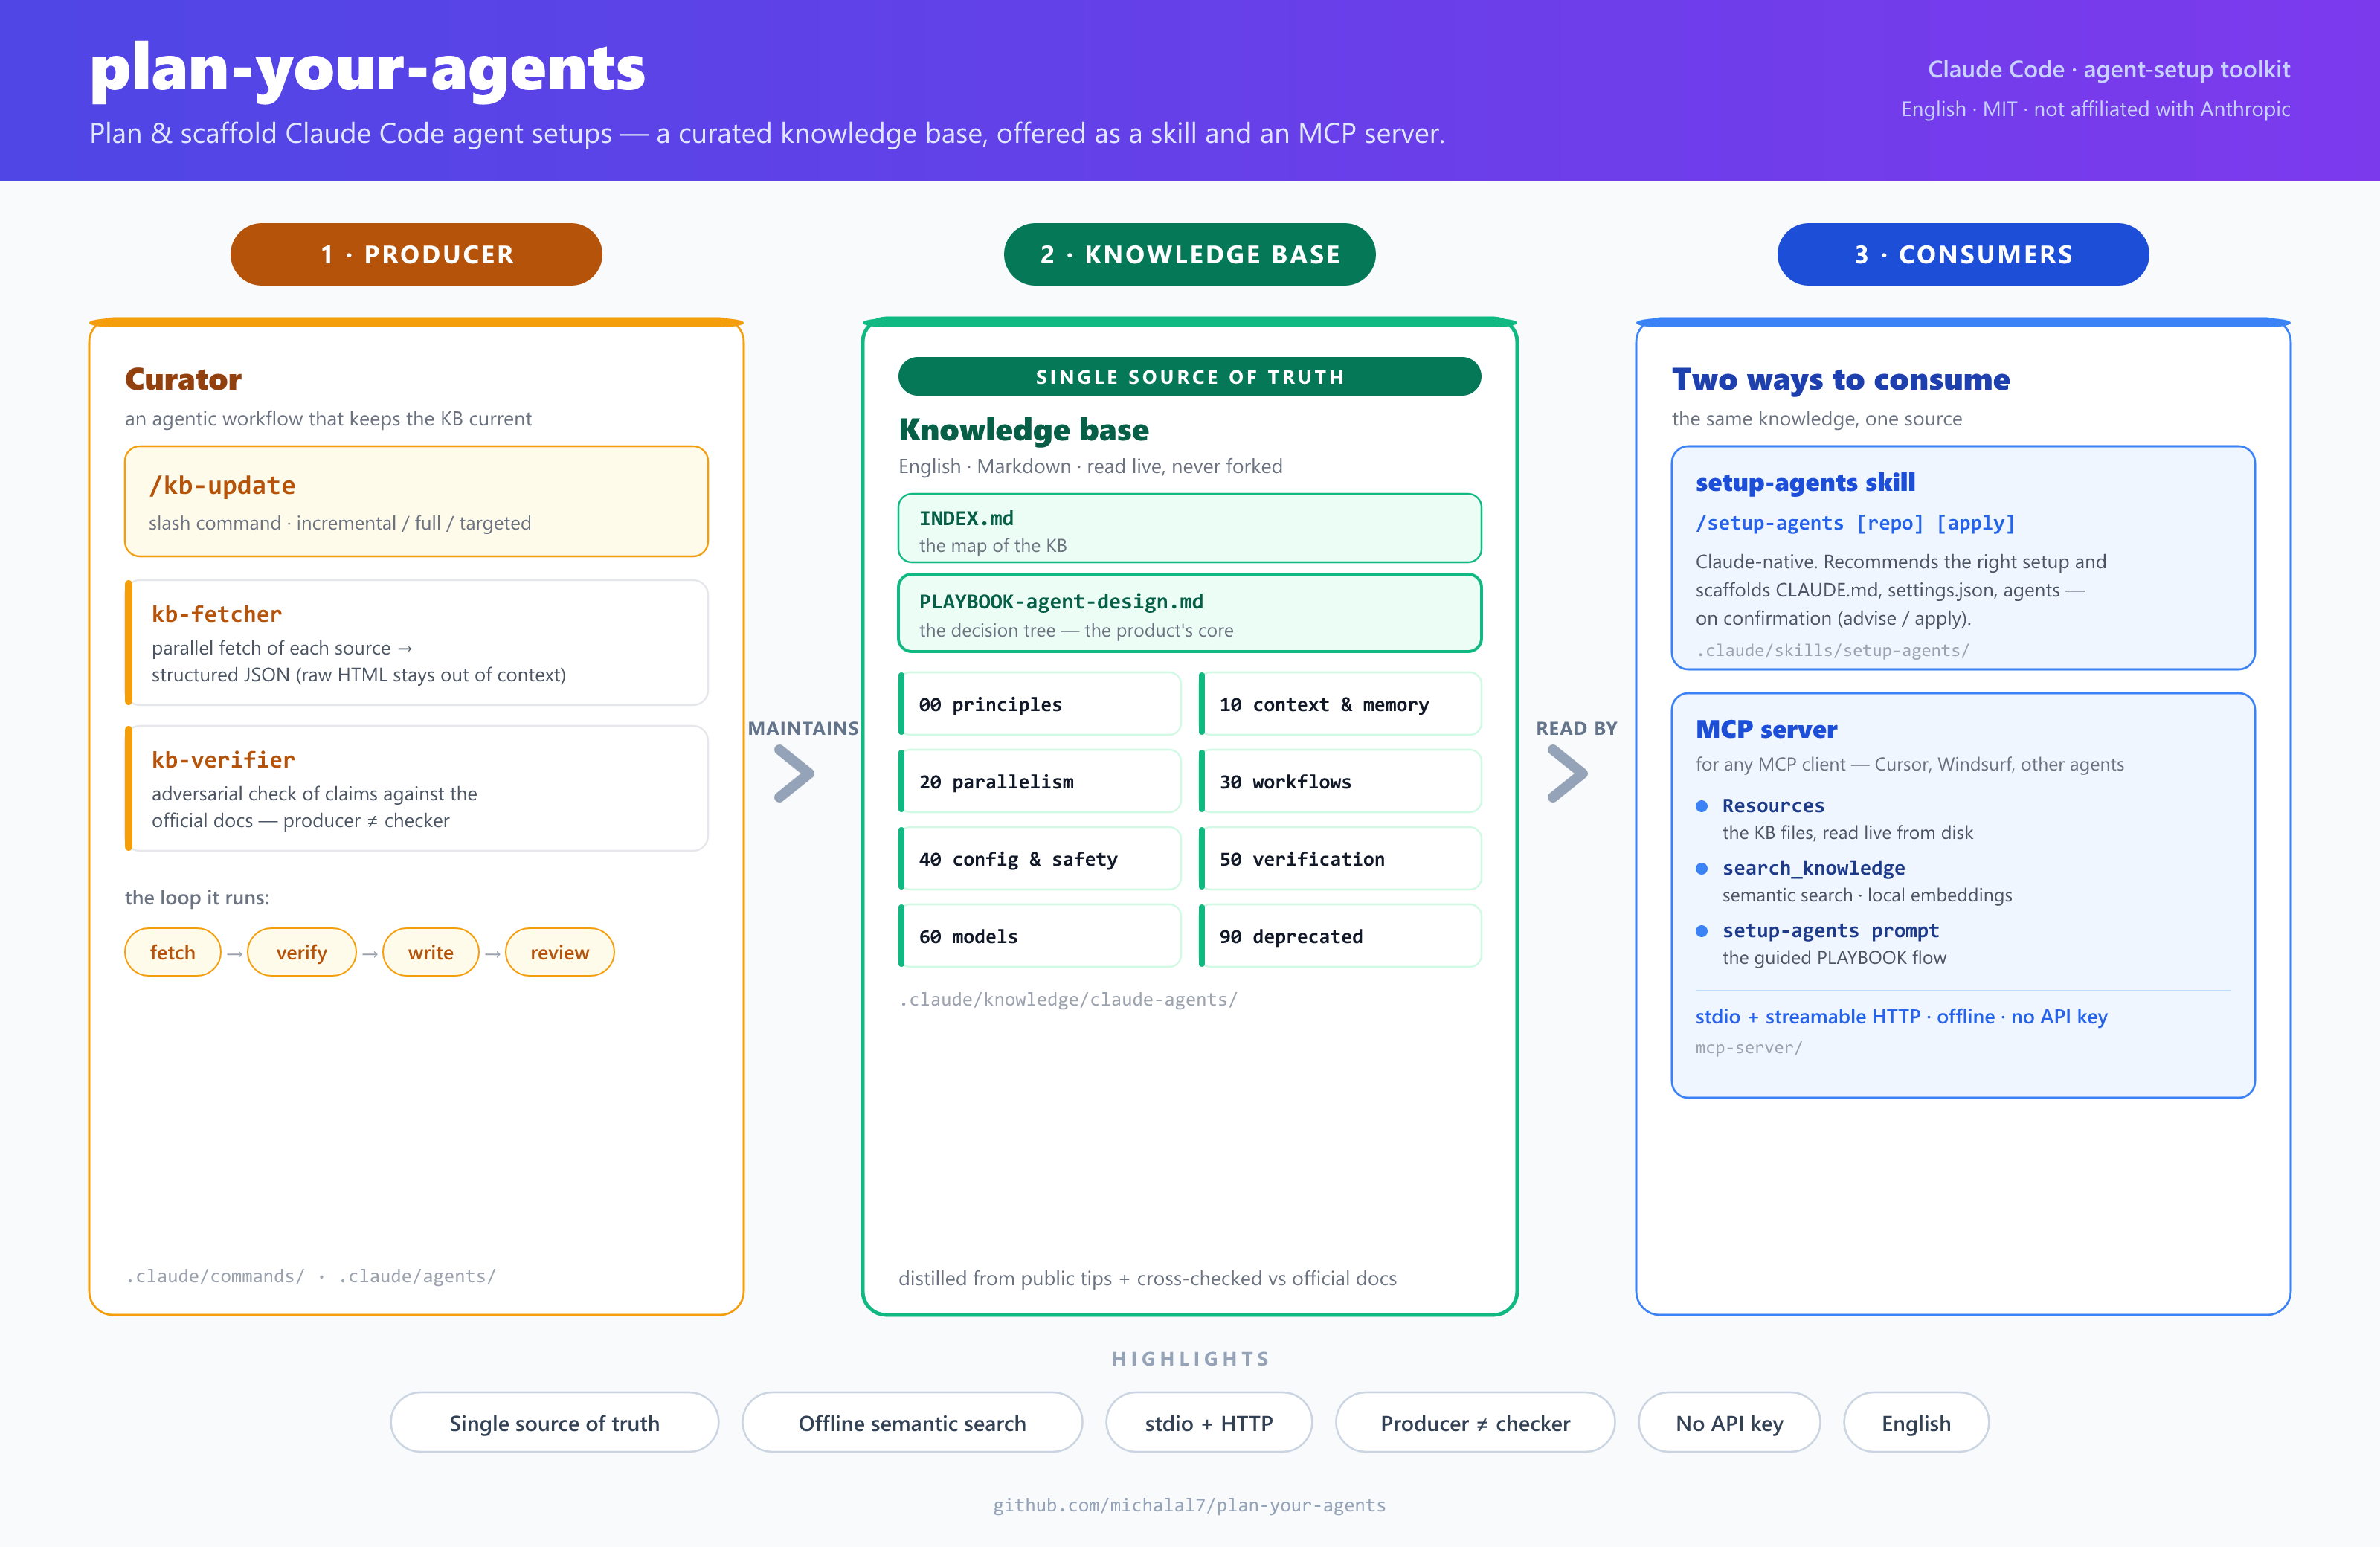
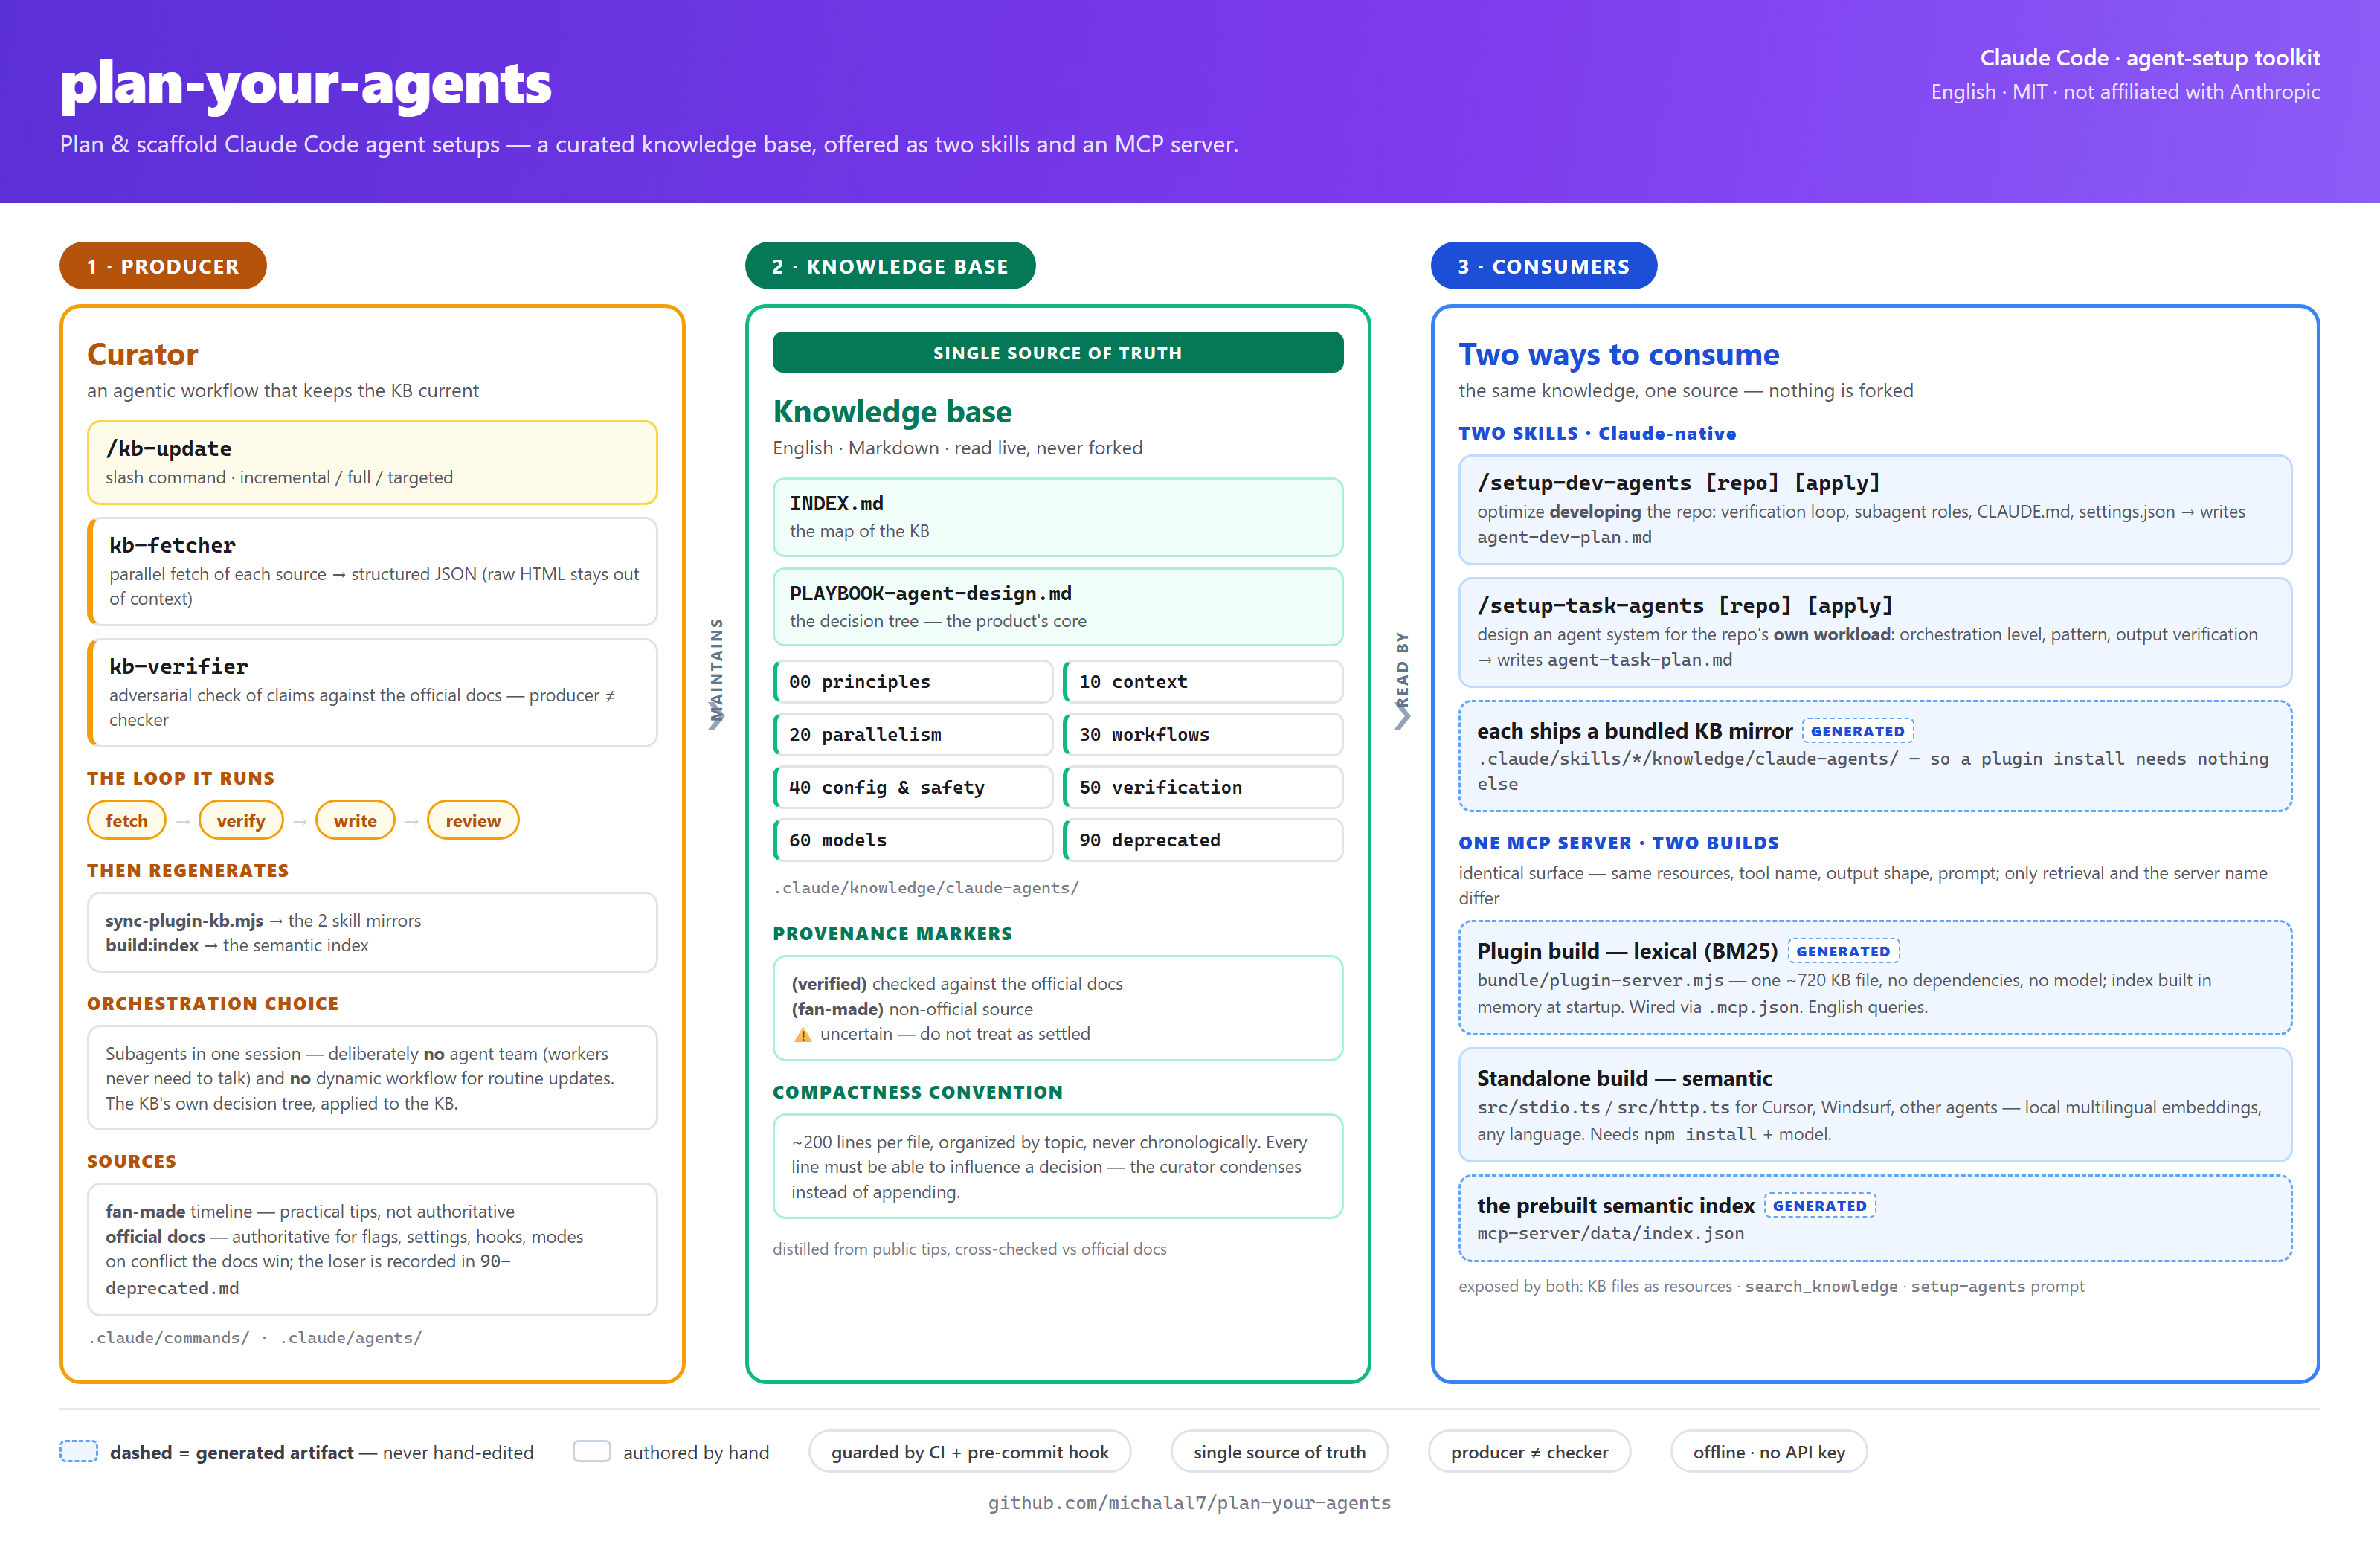
Redraw the architecture diagram and give it a source
overview.png was two refactors out of date — it showed a single
/setup-agents skill and described the MCP server as semantic-only — and
nothing in the repo linked to it, so nobody noticed.

- Redraw for the current setup: two skills with their generated KB
  mirrors, one MCP server in two builds (semantic standalone, lexical
  BM25 in the plugin), and all three generated artifacts drawn dashed
  with their CI/pre-commit guard called out.
- Add scripts/overview.html as the source, with the re-render command
  in its header. The image drifted precisely because it had none.
- Link it from a new README "Architecture" section; an unreferenced
  diagram cannot be noticed when it goes stale.
- CLAUDE.md: record the guardrail rule that a blocked edit means stop
  and ask, never reroute the same change through another channel.

diff --git a/scripts/overview.html b/scripts/overview.html
@@ -1,0 +1,293 @@
+<!doctype html>
+<!--
+  Source for ../overview.png (the README architecture diagram).
+
+  The PNG used to drift out of date because it had no source and no reference.
+  Edit this file, then re-render at exactly 3200x2080 (1600x1040 @2x):
+
+    chrome --headless=new --disable-gpu --hide-scrollbars \
+           --force-device-scale-factor=2 --window-size=1600,1040 \
+           --screenshot=overview.png scripts/overview.html
+
+  Keep it truthful about the current setup: two skills, one MCP server in two
+  builds (semantic standalone / lexical BM25 in the plugin), and the three
+  generated artifacts drawn dashed.
+-->
+<html><head><meta charset="utf-8"><style>
+  * { box-sizing: border-box; margin: 0; padding: 0; }
+  body {
+    width: 1600px; height: 1040px; background: #fff;
+    font-family: "Segoe UI", system-ui, -apple-system, sans-serif;
+    color: #1a1a1f; overflow: hidden;
+  }
+  code, .mono { font-family: "Cascadia Mono", Consolas, "SF Mono", monospace; }
+
+  /* ---------- header ---------- */
+  header {
+    background: linear-gradient(100deg, #5b2fd6 0%, #7c3aed 60%, #8b5cf6 100%);
+    color: #fff; padding: 26px 40px 30px; display: flex; align-items: flex-start;
+    justify-content: space-between;
+  }
+  h1 { font-size: 40px; font-weight: 800; letter-spacing: -0.6px; }
+  .sub { font-size: 16px; margin-top: 6px; color: #e9e2ff; }
+  .meta { text-align: right; font-size: 14px; color: #e9e2ff; line-height: 1.6; }
+  .meta b { color: #fff; font-weight: 600; font-size: 15px; }
+
+  /* ---------- layout ---------- */
+  main { padding: 26px 40px 0; display: grid;
+         grid-template-columns: 1fr 1fr 1.42fr; gap: 0 40px; }
+  .colhead {
+    display: inline-block; color: #fff; font-size: 13.5px; font-weight: 700;
+    letter-spacing: 1.1px; padding: 7px 18px; border-radius: 999px; margin-bottom: 10px;
+  }
+  .c1 .colhead { background: #b45309; }
+  .c2 .colhead { background: #047857; }
+  .c3 .colhead { background: #1d4ed8; }
+  .panel { border: 2.5px solid; border-radius: 14px; padding: 16px 16px 14px; height: 726px; }
+  .c1 .panel { border-color: #f59e0b; }
+  .c2 .panel { border-color: #10b981; }
+  .c3 .panel { border-color: #3b82f6; }
+  .ptitle { font-size: 21px; font-weight: 700; margin-bottom: 2px; }
+  .c1 .ptitle { color: #b45309; } .c2 .ptitle { color: #047857; } .c3 .ptitle { color: #1d4ed8; }
+  .plead { font-size: 13px; color: #565663; margin-bottom: 12px; }
+
+  .col { position: relative; }
+  /* Label runs vertically inside the 40px column gap, so it can never collide
+     with the panel borders the way a horizontal label did. */
+  .arrow { position: absolute; top: 300px; right: -40px; width: 40px; text-align: center;
+           font-size: 26px; color: #94a3b8; z-index: 2; }
+  .arrow span { position: absolute; bottom: 40px; left: 50%; transform: translateX(-50%) rotate(-90deg);
+                transform-origin: center; white-space: nowrap; font-size: 10.5px;
+                font-weight: 700; letter-spacing: 1.2px; color: #64748b; }
+
+  /* ---------- cards ---------- */
+  .card { border: 1.5px solid #e2e2ea; border-radius: 9px; padding: 9px 11px; margin-bottom: 8px; }
+  .card.accent { border-left: 4px solid #f59e0b; }
+  .card.hi { background: #fffbeb; border-color: #fcd34d; }
+  .cname { font-size: 14.5px; font-weight: 700; }
+  .cdesc { font-size: 11.8px; color: #565663; margin-top: 2px; line-height: 1.42; }
+
+  .sot { background: #047857; color: #fff; font-size: 11.5px; font-weight: 700;
+         letter-spacing: 1px; text-align: center; padding: 6px; border-radius: 7px;
+         margin-bottom: 11px; }
+  .kbfile { border: 1.5px solid #a7f3d0; border-radius: 8px; padding: 8px 10px; margin-bottom: 7px;
+            background: #f0fdf9; }
+  .kbfile .cname { font-size: 13.5px; }
+  .grid2 { display: grid; grid-template-columns: 1fr 1fr; gap: 6px; }
+  .topic { border: 1.5px solid #e2e2ea; border-left: 3px solid #10b981; border-radius: 7px;
+           padding: 6px 8px; font-size: 12.5px; font-weight: 600; }
+
+  .loop { display: flex; align-items: center; gap: 5px; margin-top: 4px; }
+  .pill { border: 1.5px solid #f59e0b; color: #b45309; border-radius: 999px;
+          padding: 4px 11px; font-size: 12px; font-weight: 700; background: #fffbeb; }
+  .lsep { color: #cbd5e1; font-size: 13px; }
+
+  .path { border: 1.5px solid #bfdbfe; background: #eff6ff; border-radius: 9px;
+          padding: 9px 11px; margin-bottom: 8px; }
+  .path.gen { border-style: dashed; border-color: #60a5fa; }
+  .ptag { display: inline-block; font-size: 9.5px; font-weight: 800; letter-spacing: 0.7px;
+          color: #1d4ed8; border: 1.2px dashed #60a5fa; border-radius: 4px;
+          padding: 1px 5px; margin-left: 6px; vertical-align: 1.5px; background: #fff; }
+  .foot { font-size: 11px; color: #7a7a8a; margin-top: 7px; }
+  .subhead { font-size: 12px; font-weight: 800; letter-spacing: 0.9px; color: #1d4ed8;
+             margin: 12px 0 7px; }
+  .subhead:first-child { margin-top: 0; }
+
+  /* ---------- bottom ---------- */
+  footer { padding: 16px 40px 0; }
+  .legend { display: flex; align-items: center; gap: 26px; flex-wrap: wrap;
+            border-top: 1.5px solid #e8e8ef; padding-top: 13px; }
+  .lg { display: flex; align-items: center; gap: 8px; font-size: 12.5px; color: #3f3f4a; }
+  .swatch { width: 26px; height: 15px; border-radius: 4px; border: 1.6px dashed #60a5fa;
+            background: #eff6ff; }
+  .swatch.solid { border-style: solid; border-color: #cbd5e1; background: #fff; }
+  .chip { border: 1.5px solid #e2e2ea; border-radius: 999px; padding: 5px 14px;
+          font-size: 12px; font-weight: 600; color: #3f3f4a; }
+  .url { text-align: center; font-size: 12.5px; color: #7a7a8a; margin-top: 13px; }
+</style></head><body>
+
+<header>
+  <div>
+    <h1>plan-your-agents</h1>
+    <div class="sub">Plan &amp; scaffold Claude Code agent setups — a curated knowledge base, offered as two skills and an MCP server.</div>
+  </div>
+  <div class="meta">
+    <b>Claude Code · agent-setup toolkit</b><br>
+    English · MIT · not affiliated with Anthropic
+  </div>
+</header>
+
+<main>
+  <!-- ============ 1 PRODUCER ============ -->
+  <div class="col c1">
+    <div class="colhead">1 · PRODUCER</div>
+    <div class="panel">
+      <div class="ptitle">Curator</div>
+      <div class="plead">an agentic workflow that keeps the KB current</div>
+
+      <div class="card hi">
+        <div class="cname mono">/kb-update</div>
+        <div class="cdesc">slash command · incremental / full / targeted</div>
+      </div>
+      <div class="card accent">
+        <div class="cname mono">kb-fetcher</div>
+        <div class="cdesc">parallel fetch of each source → structured JSON (raw HTML stays out of context)</div>
+      </div>
+      <div class="card accent">
+        <div class="cname mono">kb-verifier</div>
+        <div class="cdesc">adversarial check of claims against the official docs — producer ≠ checker</div>
+      </div>
+
+      <div class="subhead" style="color:#b45309">THE LOOP IT RUNS</div>
+      <div class="loop">
+        <div class="pill">fetch</div><div class="lsep">→</div>
+        <div class="pill">verify</div><div class="lsep">→</div>
+        <div class="pill">write</div><div class="lsep">→</div>
+        <div class="pill">review</div>
+      </div>
+
+      <div class="subhead" style="color:#b45309">THEN REGENERATES</div>
+      <div class="card">
+        <div class="cdesc" style="margin:0">
+          <b>sync-plugin-kb.mjs</b> → the 2 skill mirrors<br>
+          <b>build:index</b> → the semantic index
+        </div>
+      </div>
+
+      <div class="subhead" style="color:#b45309">ORCHESTRATION CHOICE</div>
+      <div class="card">
+        <div class="cdesc" style="margin:0">Subagents in one session — deliberately <b>no</b> agent
+          team (workers never need to talk) and <b>no</b> dynamic workflow for routine updates.
+          The KB's own decision tree, applied to the KB.</div>
+      </div>
+
+      <div class="subhead" style="color:#b45309">SOURCES</div>
+      <div class="card">
+        <div class="cdesc" style="margin:0">
+          <b>fan-made</b> timeline — practical tips, not authoritative<br>
+          <b>official docs</b> — authoritative for flags, settings, hooks, modes<br>
+          on conflict the docs win; the loser is recorded in <span class="mono">90-deprecated.md</span>
+        </div>
+      </div>
+
+      <div class="foot mono">.claude/commands/ · .claude/agents/</div>
+    </div>
+    <div class="arrow">❯<span>MAINTAINS</span></div>
+  </div>
+
+  <!-- ============ 2 KNOWLEDGE BASE ============ -->
+  <div class="col c2">
+    <div class="colhead">2 · KNOWLEDGE BASE</div>
+    <div class="panel">
+      <div class="sot">SINGLE SOURCE OF TRUTH</div>
+      <div class="ptitle">Knowledge base</div>
+      <div class="plead">English · Markdown · read live, never forked</div>
+
+      <div class="kbfile">
+        <div class="cname mono">INDEX.md</div>
+        <div class="cdesc">the map of the KB</div>
+      </div>
+      <div class="kbfile">
+        <div class="cname mono">PLAYBOOK-agent-design.md</div>
+        <div class="cdesc">the decision tree — the product's core</div>
+      </div>
+
+      <div class="grid2" style="margin-top:9px">
+        <div class="topic mono">00 principles</div>
+        <div class="topic mono">10 context</div>
+        <div class="topic mono">20 parallelism</div>
+        <div class="topic mono">30 workflows</div>
+        <div class="topic mono">40 config &amp; safety</div>
+        <div class="topic mono">50 verification</div>
+        <div class="topic mono">60 models</div>
+        <div class="topic mono">90 deprecated</div>
+      </div>
+
+      <div class="foot mono" style="margin-top:11px">.claude/knowledge/claude-agents/</div>
+
+      <div class="subhead" style="color:#047857; margin-top:16px">PROVENANCE MARKERS</div>
+      <div class="card" style="border-color:#a7f3d0">
+        <div class="cdesc" style="margin:0">
+          <b>(verified)</b> checked against the official docs<br>
+          <b>(fan-made)</b> non-official source<br>
+          <b>⚠️</b> uncertain — do not treat as settled
+        </div>
+      </div>
+
+      <div class="subhead" style="color:#047857">COMPACTNESS CONVENTION</div>
+      <div class="card" style="border-color:#a7f3d0">
+        <div class="cdesc" style="margin:0">~200 lines per file, organized by topic, never
+          chronologically. Every line must be able to influence a decision — the curator
+          condenses instead of appending.</div>
+      </div>
+
+      <div class="foot" style="margin-top:12px">distilled from public tips, cross-checked vs official docs</div>
+    </div>
+    <div class="arrow">❯<span>READ BY</span></div>
+  </div>
+
+  <!-- ============ 3 CONSUMERS ============ -->
+  <div class="col c3">
+    <div class="colhead">3 · CONSUMERS</div>
+    <div class="panel">
+      <div class="ptitle">Two ways to consume</div>
+      <div class="plead">the same knowledge, one source — nothing is forked</div>
+
+      <div class="subhead">TWO SKILLS · Claude-native</div>
+      <div class="path">
+        <div class="cname mono">/setup-dev-agents [repo] [apply]</div>
+        <div class="cdesc">optimize <b>developing</b> the repo: verification loop, subagent roles,
+          CLAUDE.md, settings.json → writes <span class="mono">agent-dev-plan.md</span></div>
+      </div>
+      <div class="path">
+        <div class="cname mono">/setup-task-agents [repo] [apply]</div>
+        <div class="cdesc">design an agent system for the repo's <b>own workload</b>: orchestration
+          level, pattern, output verification → writes <span class="mono">agent-task-plan.md</span></div>
+      </div>
+      <div class="path gen">
+        <div class="cname">each ships a bundled KB mirror<span class="ptag">GENERATED</span></div>
+        <div class="cdesc mono">.claude/skills/*/knowledge/claude-agents/ — so a plugin install needs nothing else</div>
+      </div>
+
+      <div class="subhead">ONE MCP SERVER · TWO BUILDS</div>
+      <div class="cdesc" style="margin:-3px 0 7px">
+        identical surface — same resources, tool name, output shape, prompt;
+        only retrieval and the server name differ
+      </div>
+      <div class="path gen">
+        <div class="cname">Plugin build — lexical (BM25)<span class="ptag">GENERATED</span></div>
+        <div class="cdesc"><span class="mono">bundle/plugin-server.mjs</span> — one ~720 KB file, no
+          dependencies, no model; index built in memory at startup. Wired via
+          <span class="mono">.mcp.json</span>. English queries.</div>
+      </div>
+      <div class="path">
+        <div class="cname">Standalone build — semantic</div>
+        <div class="cdesc"><span class="mono">src/stdio.ts</span> / <span class="mono">src/http.ts</span>
+          for Cursor, Windsurf, other agents — local multilingual embeddings, any language.
+          Needs <span class="mono">npm install</span> + model.</div>
+      </div>
+      <div class="path gen">
+        <div class="cname">the prebuilt semantic index<span class="ptag">GENERATED</span></div>
+        <div class="cdesc mono">mcp-server/data/index.json</div>
+      </div>
+
+      <div class="foot">exposed by both: KB files as resources ·
+        <span class="mono">search_knowledge</span> · <span class="mono">setup-agents</span> prompt</div>
+    </div>
+  </div>
+</main>
+
+<footer>
+  <div class="legend">
+    <div class="lg"><div class="swatch"></div>
+      <span><b>dashed = generated artifact</b> — never hand-edited</span></div>
+    <div class="lg"><div class="swatch solid"></div><span>authored by hand</span></div>
+    <div class="chip">guarded by CI + pre-commit hook</div>
+    <div class="chip">single source of truth</div>
+    <div class="chip">producer ≠ checker</div>
+    <div class="chip">offline · no API key</div>
+  </div>
+  <div class="url mono">github.com/michalal7/plan-your-agents</div>
+</footer>
+
+</body></html>

diff --git a/README.md b/README.md
@@ -8,12 +8,21 @@ Two skills, two intents:
 - **`/setup-dev-agents`** — optimize *developing* the repo: the Claude Code config (verification loop for the dev cycle, subagent roles, `CLAUDE.md`, `.claude/settings.json`). Plan → `agent-dev-plan.md`.
 - **`/setup-task-agents`** — design an agent *system that performs the repo's own workload* (migrations, data/doc processing, research, triage, batch jobs): orchestration level, orchestrator pattern, output verification, and workflow/command/agent stubs. Plan → `agent-task-plan.md`.
 
+## Architecture
+
+![How plan-your-agents fits together: the curator maintains the knowledge base, which is read by the two skills and the MCP server](overview.png)
+
+One knowledge base, three roles: a **curator** keeps it current from source, the KB itself is the
+**single source of truth**, and the **consumers** (two skills, one MCP server in two builds) read it.
+Everything drawn dashed is generated from the KB or from `mcp-server/src/` and is never hand-edited —
+CI and a pre-commit hook enforce that. Regenerate the diagram from [`scripts/overview.html`](scripts/overview.html).
+
 ## What's inside
 
 - **`.claude/skills/setup-dev-agents/`, `.claude/skills/setup-task-agents/`** — the two skills (each invocable as `/<name>`, also auto-trigger on intent); shared analysis machinery in `.claude/skills/_shared/`.
 - **`.claude/knowledge/claude-agents/`** — the knowledge base it reads: `INDEX.md`, the decision-oriented `PLAYBOOK-agent-design.md`, and topic files `00`–`90` (principles, context/memory, parallelism, workflows, config/safety, verification, models, deprecated).
 - **`.claude/commands/kb-update.md`** + **`.claude/agents/kb-fetcher.md`, `kb-verifier.md`** — the *curator* that keeps the knowledge base current from source.
-- **`mcp-server/`** — an *additive* MCP server that exposes the same knowledge base to any MCP client (Cursor, Windsurf, other agents) with semantic search. See below.
+- **`mcp-server/`** — an *additive* MCP server that exposes the same knowledge base to any MCP client (Cursor, Windsurf, other agents). Two builds: semantic standalone, lexical/BM25 inside the plugin. See below.
 - **`RUNBOOK.md`** — step-by-step for running everything locally.
 
 The knowledge is distilled from Boris Cherny's public Claude Code tips and cross-checked against the official docs (see Credits).

diff --git a/CLAUDE.md b/CLAUDE.md
@@ -18,3 +18,7 @@ Read the content when needed; don't pull it into context up front.
 ## Conventions
 - The KB is the single source of truth; the skill mirror and MCP index are generated from it.
 - The KB is English-only — content, `CHANGELOG.md`, `_state.json` notes.
+- `overview.png` is rendered from `scripts/overview.html` — edit the source, re-render, never patch the image alone.
+
+## Guardrails
+- If a guardrail blocks an edit — especially to permission/config files like `.claude/settings.json` — stop and ask. Never route the same change through another channel (shell append, rename, temp file, etc.), even when the change looks trivial. The block is a signal about the file's sensitivity, not an obstacle to work around. Disclosing the workaround afterwards does not make it acceptable.